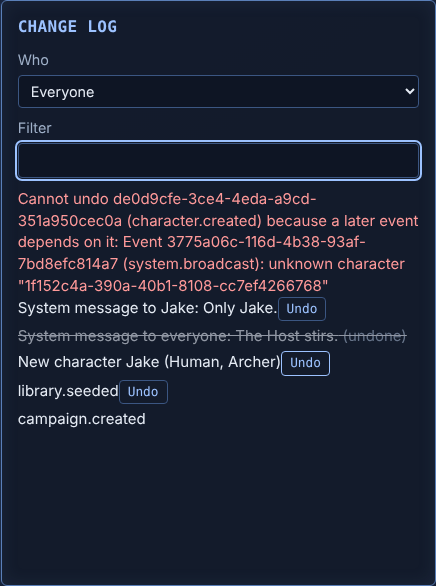
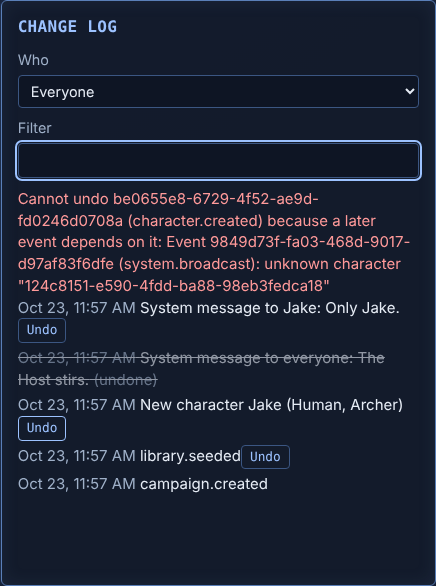
wip(M4.8): time and player marker per row
Claude-Session: https://claude.ai/code/session_01K2rTSae7CMw5DvYtxWoQVi

Changed region(s): [[0.0298, 0.3072, 0.9541, 0.7372], [0.0298, 0.7679, 0.656, 0.8601]]

diff --git a/apps/web/src/gm/ChangeLog.tsx b/apps/web/src/gm/ChangeLog.tsx
@@ -2,6 +2,7 @@ import { useEffect, useState } from 'react';
 import type { CampaignState, ChangeLogRow } from '@the-system/engine';
 import { friendlyError } from '../format';
 import type { LiveClient } from '../live';
+import { shortTime } from './sessionModel';
 
 /**
  * M4.8 (in progress): the GM's change log, newest first, filterable, with
@@ -60,6 +61,10 @@ export function ChangeLog({
       <ol className="change-log">
         {shown.map((r) => (
           <li key={r.id} className={r.undoneBy ? 'undone' : undefined}>
+            <span className="muted small">
+              {shortTime(r.at)}
+              {r.actor === 'player' ? ' · player' : ''}{' '}
+            </span>
             {r.lines.join(' · ')}
             {r.type === 'campaign.created' ? null : r.undoneBy ? (
               <span className="muted"> (undone)</span>
